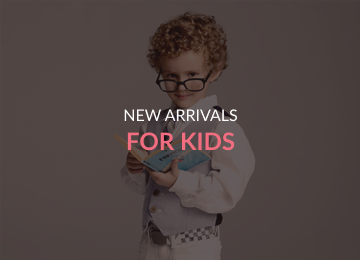
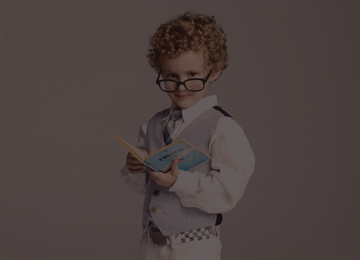
7

Changed region(s): [[0.3361, 0.4, 0.6722, 0.5846]]

diff --git a/style.css b/style.css
@@ -22,10 +22,7 @@ body {
 }
 
 .header {
-    align-items: center;
     flex-wrap: wrap;
-    flex-direction: row;
-    align-content: center;
     gap: 859px;
     background-color: #222222
 }
@@ -89,6 +86,43 @@ body {
     justify-content: center;
 }
 
+.category {
+    position: relative;
+    width: 100%;
+    /* for IE 6 */
+}
+
+.up_text {
+    position: absolute;
+    top: 105px;
+    bottom: 105px;
+    left: 103px;
+    right: 103px;
+}
+
+.up_text_big {
+    position: absolute;
+    top: 65px;
+    bottom: 65px;
+    left: 491px;
+    right: 491px;
+}
+
+.title_5 {
+    width: 160px;
+    color: #FFF;
+    font-size: 16px;
+    font-weight: 400;
+    text-align: center;
+}
+
+.title_6 {
+    width: 160px;
+    font-size: 24px;
+    font-weight: 700;
+    text-align: center;
+}
+
 .title_3 {
     font-size: 30px;
 }
@@ -149,4 +183,121 @@ body {
     border-style: solid;
     border-color: #FF6A6A;
     background-color: #FFF;
+}
+
+
+@media (max-width: 1024px) {
+
+    .center {
+        padding-left: calc(50% - 376px);
+        padding-right: calc(50% - 376px);
+    }
+
+    .header {
+        display: flex;
+        gap: 424px;
+    }
+
+    .header__menu {
+        margin-top: 18px;
+        margin-bottom: 18px;
+        padding-top: 8px;
+    }
+
+    .header__logo__search {
+        margin-top: 18px;
+        margin-bottom: 18px;
+    }
+
+    .homepage {
+        width: 386px;
+        height: 368px;
+    }
+
+    .title_content {
+        height: 368px;
+        display: flex;
+        align-items: flex-start;
+        gap: 39px
+    }
+
+    .title__text {
+        margin-top: 137px;
+        display: flex;
+        gap: 16px;
+
+    }
+
+    .title_1 {
+        width: 283px;
+        font-size: 44px;
+    }
+
+    .title_2 {
+        width: 283px;
+        font-size: 24px;
+    }
+
+    .categories {
+        padding-bottom: 110px;
+        display: grid;
+        gap: 19px;
+        grid-template-columns: repeat(3, 232px);
+        justify-content: center;
+    }
+
+    .category {
+        width: 232px;
+        height: 168px;
+    }
+
+    .category_big {
+        width: 735px;
+        height: 116px;
+    }
+
+    .products {
+        display: grid;
+        gap: 16px;
+        grid-template-columns: repeat(2, 360px);
+        justify-content: center;
+    }
+
+    .product__img {
+        width: 360px;
+        height: 420px;
+    }
+
+    .button {
+        margin-top: 33px;
+        margin-bottom: 71px;
+    }
+
+    .categ_img {
+        width: 232px;
+        height: 168px;
+    }
+
+    .up_text {
+        /* padding: 60px; */
+        position: absolute;
+        top: 60px;
+        bottom: 60px;
+        left: 39px;
+        right: 39px;
+    }
+
+    .categ_img_big {
+        width: 735px;
+        height: 116px;
+    }
+
+    .up_text_big {
+        /* padding: 60px; */
+        position: absolute;
+        top: 33px;
+        bottom: 33px;
+        left: 287px;
+        right: 287px;
+    }
 }

diff --git a/index.html b/index.html
@@ -24,7 +24,7 @@
         </div>
     </div>
     <div class="title_content center">
-        <img src="img/homepage_img.png" alt="homepage img">
+        <img class="homepage" src="img/homepage_img.png" alt="homepage img">
         <div class="title__text">
             <img src="img/red_line.svg" alt="red line">
             <div>
@@ -34,16 +34,40 @@
         </div>
     </div>
     <div class="categories">
-        <img class="category" src="img/for_women.png" alt="logo 1">
-        <img class="category" src="img/for_men.png" alt="logo 2">
-        <img class="category" src="img/for_kids.png" alt="logo 3">
-        <img class="category" src="img/accesories.png" alt="logo 4">
+        <div class="category">
+            <img class="categ_img" src="img/for_women.png" alt="for women">
+            <div class="up_text">
+                <h2 class="title_5">30% OFF</h2>
+                <h2 class="title_6 colortext">FOR WOMEN</h2>
+            </div>
+        </div>
+        <div class="category">
+            <img class="categ_img" src="img/for_men.png" alt="for men">
+            <div class="up_text">
+                <h2 class="title_5">HOT DEAL</h2>
+                <h2 class="title_6 colortext">FOR MEN</h2>
+            </div>
+        </div>
+        <div class="category">
+            <img class="categ_img" src="img/for_kids.png" alt="for kids">
+            <div class="up_text">
+                <h2 class="title_5">NEW ARRIVALS</h2>
+                <h2 class="title_6 colortext">FOR KIDS</h2>
+            </div>
+        </div>
+        <div class="category">
+            <img class="categ_img_big" src="img/accesories.png" alt="accesories">
+            <div class="up_text_big">
+                <h2 class="title_5">LUXIROUS & TRENDY</h2>
+                <h2 class="title_6 colortext">ACCESORIES</h2>
+            </div>
+        </div>
     </div>
     <h1 class="title_3 flex_center">Fetured Items</h1>
     <h1 class="title_4 flex_center">Shop for items based on what we featured in this week</h1>
     <div class="products">
         <div class="product">
-            <img src="img/image_1.png" alt="image 1" class="product__img">
+            <img src="img/image_1.png" alt="image 1" class="">
             <div class="content">
                 <h3 class="product_name">ELLERY X M'O CAPSULE</h3>
                 <p class="product_text">Known for her sculptural takes on traditional tailoring, Australian arbiter of
